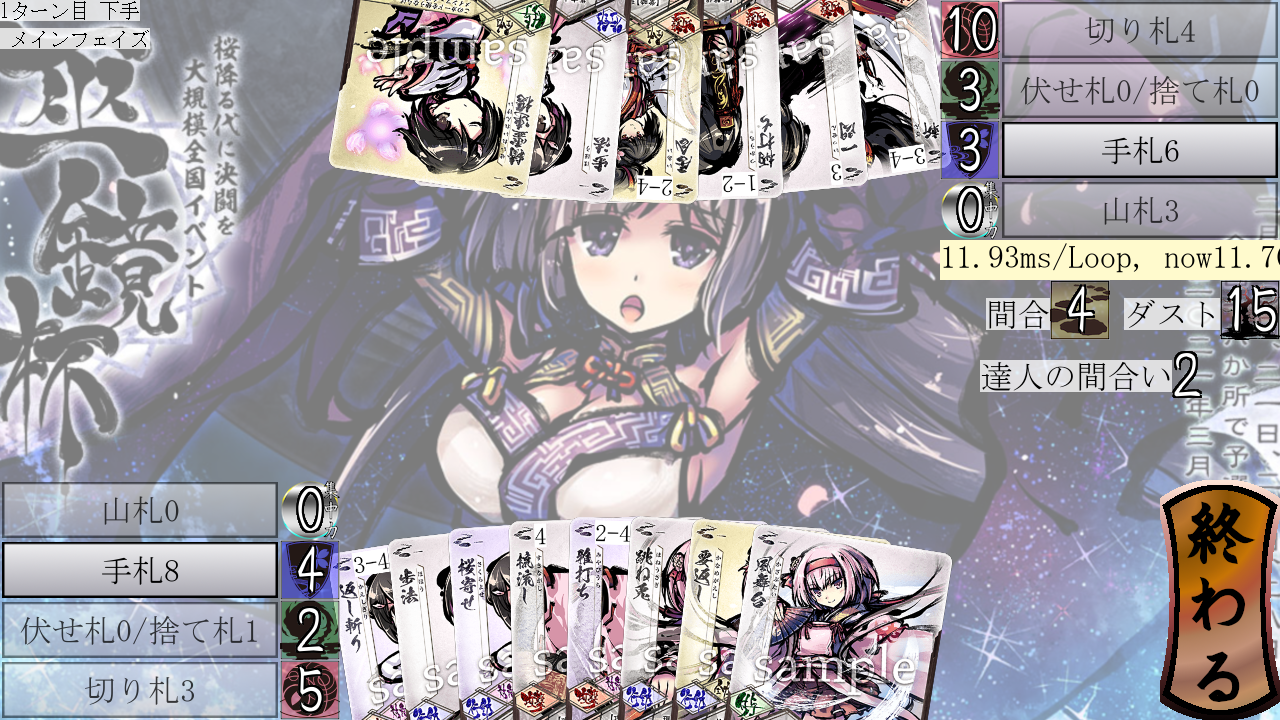
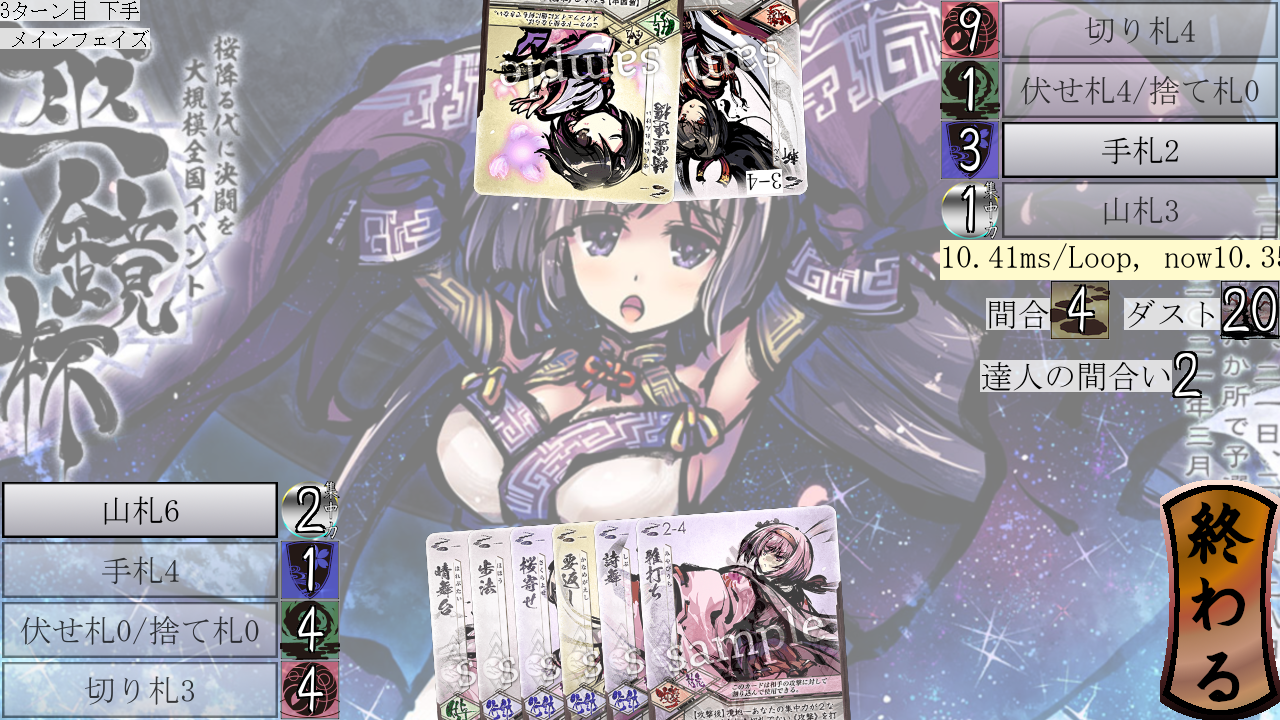
J674:晴舞台実装

diff --git a/kaiketus/m04o.py b/kaiketus/m04o.py
@@ -23,7 +23,7 @@ from mod.coous.aura_guard import AuraGuard
 from mod.ol.pipeline_layer import PipelineLayer
 from mod.ol.only_select_layer import OnlySelectLayer
 from mod.card.kw.handraw import handraw
-from mod.card.kw.syuutyuu import isyuku
+from mod.card.kw.syuutyuu import isyuku, full_syuutyuu
 from mod.card.kw.handraw import handraw_card
 from mod.card.kw.discard import discard_card
 
@@ -110,3 +110,8 @@ n_5 = Card(megami=MG_TOKOYO, img=img_card("o_n_5"), name="要返し", cond=auto_
 n_6 = Card(megami=MG_TOKOYO, img=img_card("o_n_6"), name="風舞台", cond=auto_di, type=CT_HUYO, osame=int_di(2),
     tenkaizi=TempKoudou(name="２前身", cond=auto_di, yazirusi=Yazirusi(from_code=UC_MAAI, to_mine=True, to_code=UC_AURA, kazu=2)),
     hakizi=TempKoudou(name="２後退", cond=auto_di, yazirusi=Yazirusi(from_mine=True, from_code=UC_AURA, to_code=UC_MAAI, kazu=2)))
+
+n_7 = Card(megami=MG_TOKOYO, img=img_card("o_n_7_s6_2"), name="晴舞台", cond=auto_di, type=CT_HUYO, osame=int_di(2),
+    tenkaizi=TempKoudou(name="集中２", cond=auto_di, kouka=full_syuutyuu),
+    hakizi=Card(megami=MG_TOKOYO, img=img_card("o_n_7_s6_2"), name="晴舞台：破棄時", cond=auto_di, type=CT_KOUGEKI,
+    aura_bar=auto_di, life_damage_func=int_di(1), maai_list=dima_di(3, 6)))

diff --git a/mod/card/kw/yazirusi.py b/mod/card/kw/yazirusi.py
@@ -19,7 +19,6 @@ class Yazirusi(NamedTuple):
     def send(self, delivery: Delivery, hoyuusya: int) -> None:
         self.finally_send(delivery=delivery, hoyuusya=hoyuusya)
 
-#                 20                  40                  60                 79
     def finally_send(self, delivery: Delivery, hoyuusya: int)-> None:
         layer = moderator.last_layer()
         if applied_scalar(i=0, scalar=SC_SMOKE, delivery=delivery) > 0 and\
@@ -29,10 +28,6 @@ class Yazirusi(NamedTuple):
             delivery.send_ouka_to_ryouiki(hoyuusya=hoyuusya,
                 from_mine=self.from_mine, from_code=self.from_code,
                 to_mine=self.to_mine, to_code=self.to_code, kazu=self.kazu)
-
-    def moderate(self, delivery: Delivery, hoyuusya: int, code: int) -> None:
-        self.send(delivery=delivery, hoyuusya=hoyuusya)
-        moderator.last_layer().moderate(PopStat(code=code))
 
     def listed(self) -> list[Any]:
         return [self.from_mine, self.from_code,

diff --git a/mod/mikoto.py b/mod/mikoto.py
@@ -69,8 +69,8 @@ class Mikoto():
 
     def _simote_make(self) -> None:
         from kaiketus import m00a, m00b
-        from kaiketus.m04o import n_1, n_2, n_3, n_4, n_5, n_6#, n_7, s_1, s_2, s_3, s_4
-        hands = [m00b.n_4, m00b.n_5, m00b.n_6, n_1, n_2, n_3, n_4, n_5, n_6]
+        from kaiketus.m04o import n_1, n_2, n_3, n_4, n_5, n_6, n_7#, s_1, s_2, s_3, s_4
+        hands = [m00b.n_4, m00b.n_5, m00b.n_6, n_1, n_2, n_3, n_4, n_5, n_6, n_7]
         trumps = [m00b.s_3, m00a.s_3, m00a.s_2]
         self.yamahuda = yamahuda_factory.maid_by_cards(cards=[], hoyuusya=self.hoyuusya)
         self.tehuda = tehuda_factory.maid_by_cards(cards=hands, hoyuusya=self.hoyuusya)

diff --git a/mod/card/kw/syuutyuu.py b/mod/card/kw/syuutyuu.py
@@ -4,6 +4,9 @@ from mod.delivery import Delivery
 def syuutyuu(delivery: Delivery, hoyuusya: int) -> None:
     delivery.send_ouka_to_ryouiki(hoyuusya=hoyuusya, from_code=UC_ZYOGAI, to_mine=True, to_code=UC_SYUUTYUU, kazu=1)
 
+def full_syuutyuu(delivery: Delivery, hoyuusya: int) -> None:
+    delivery.send_ouka_to_ryouiki(hoyuusya=hoyuusya, from_code=UC_ZYOGAI, to_mine=True, to_code=UC_SYUUTYUU, kazu=2)
+
 def reduce_syuutyuu(delivery: Delivery, hoyuusya: int) -> None:
     delivery.send_ouka_to_ryouiki(hoyuusya=hoyuusya, from_mine=True, from_code=UC_SYUUTYUU, to_code=UC_ZYOGAI, kazu=2)
 
